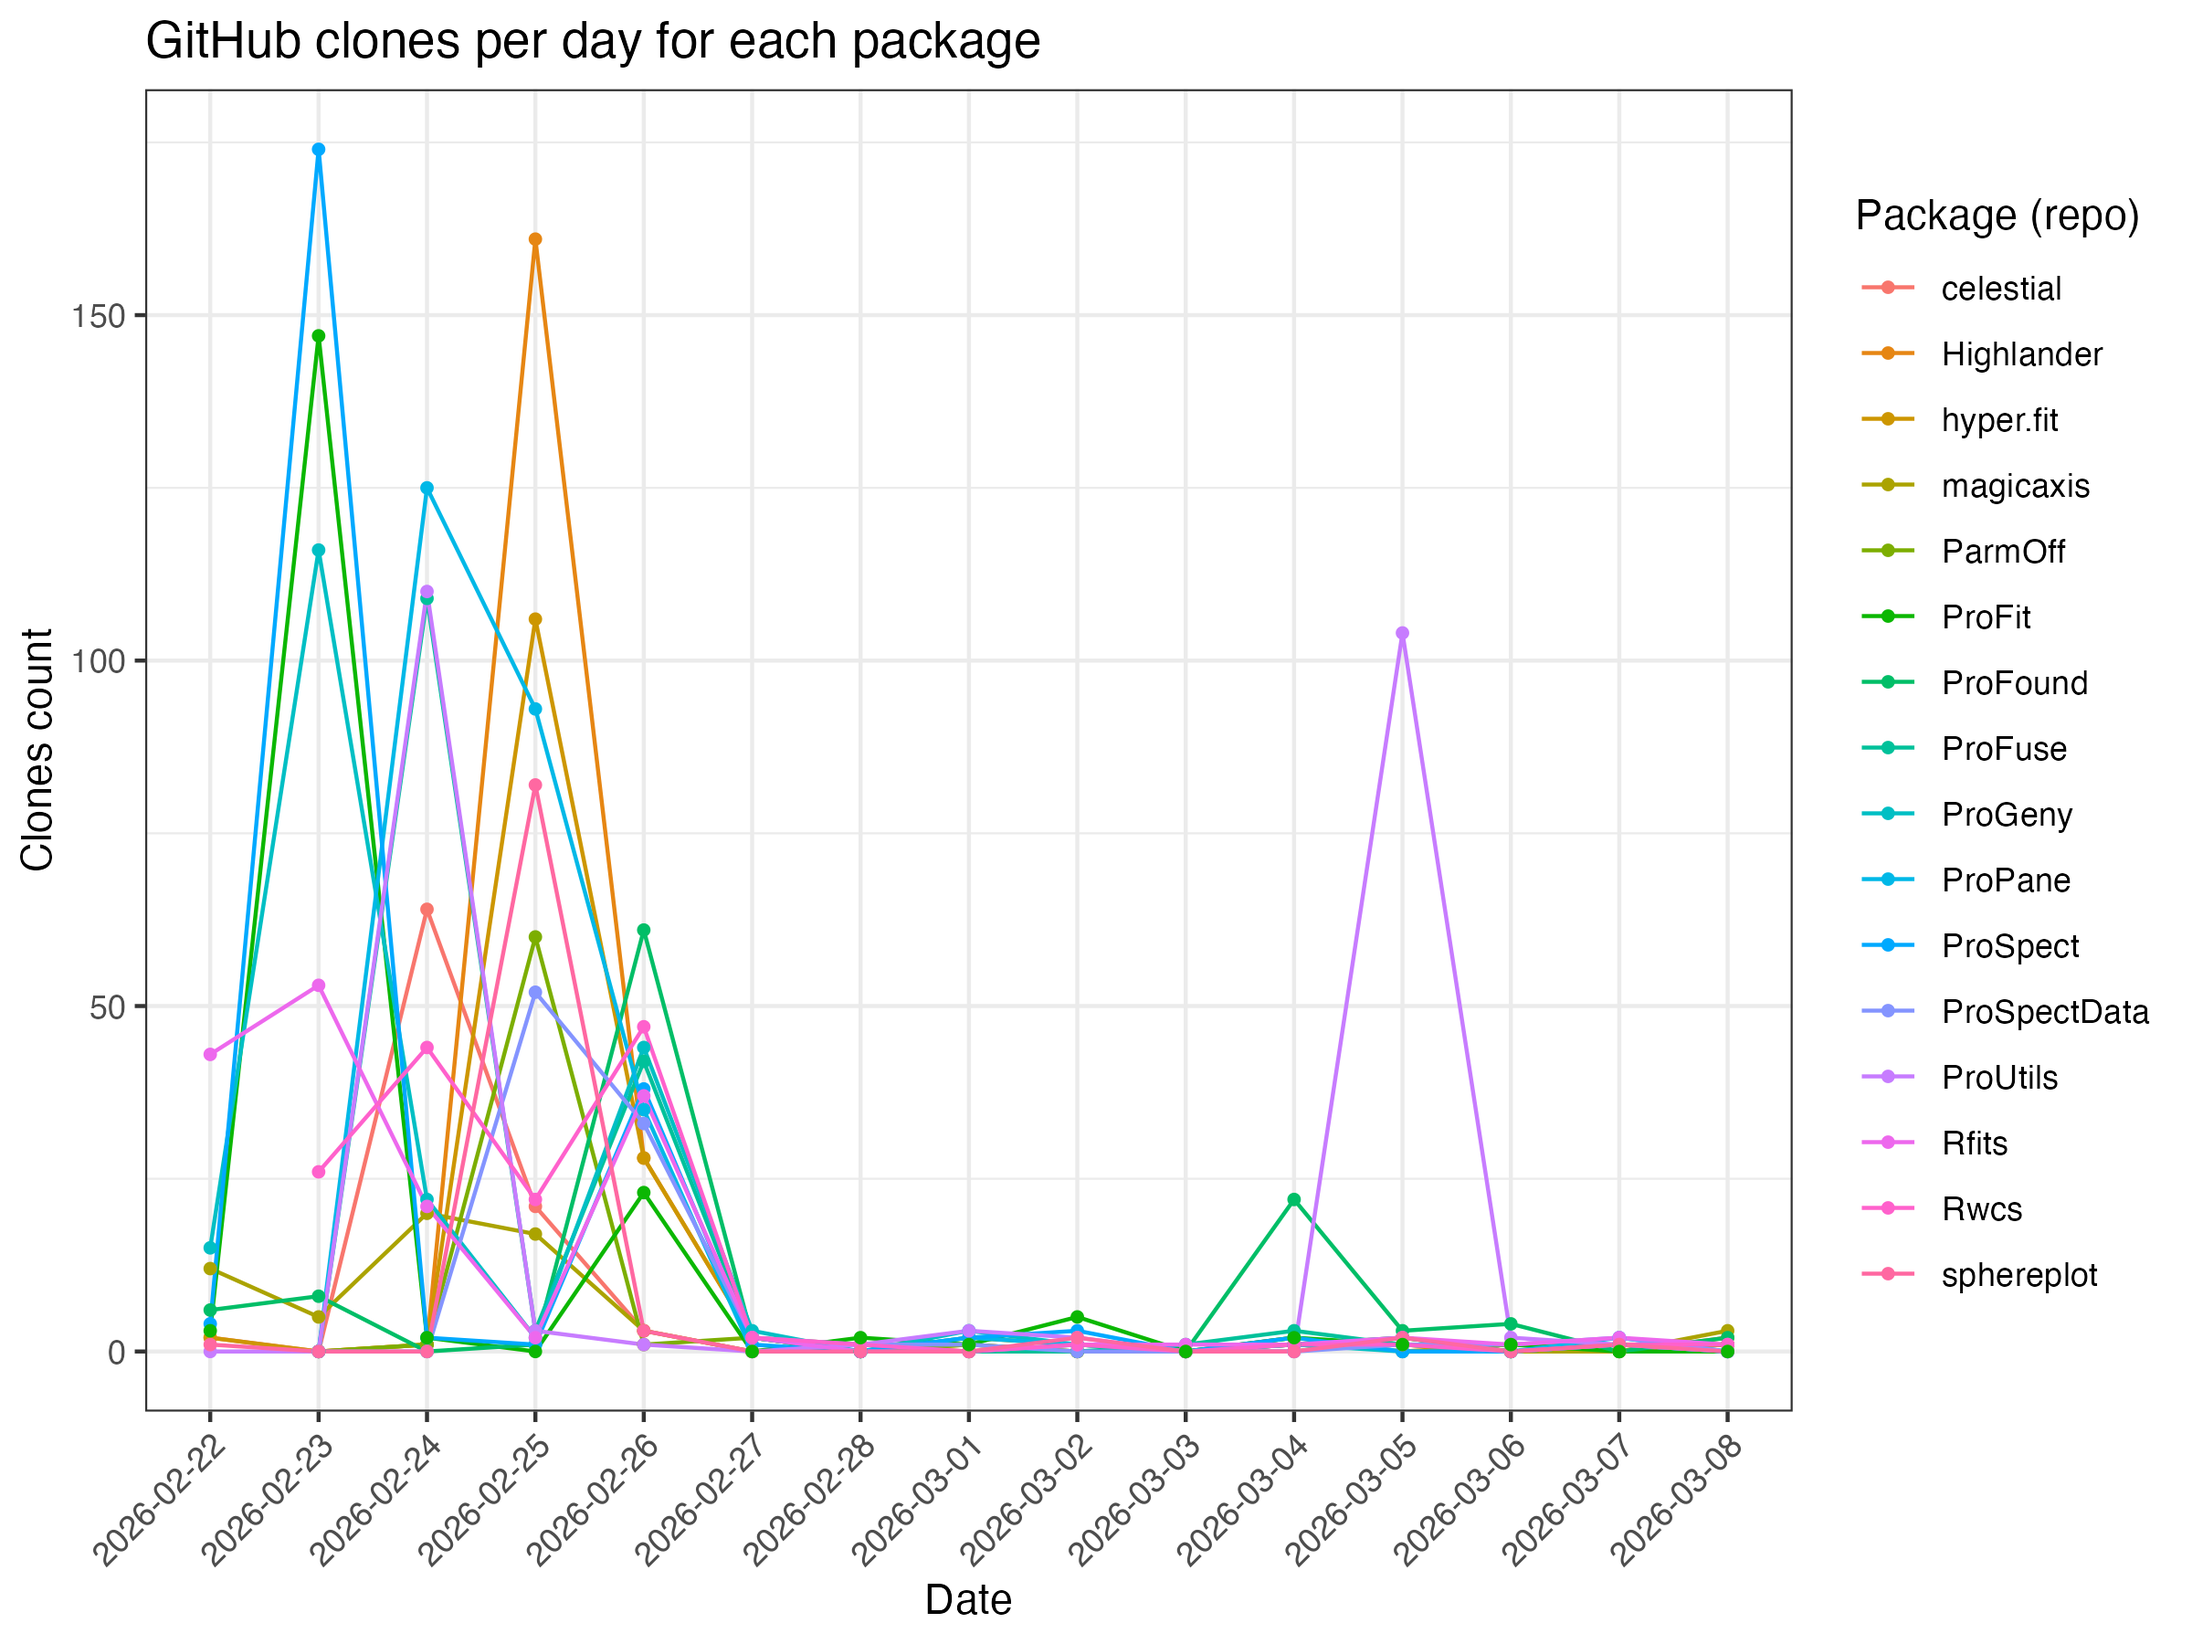
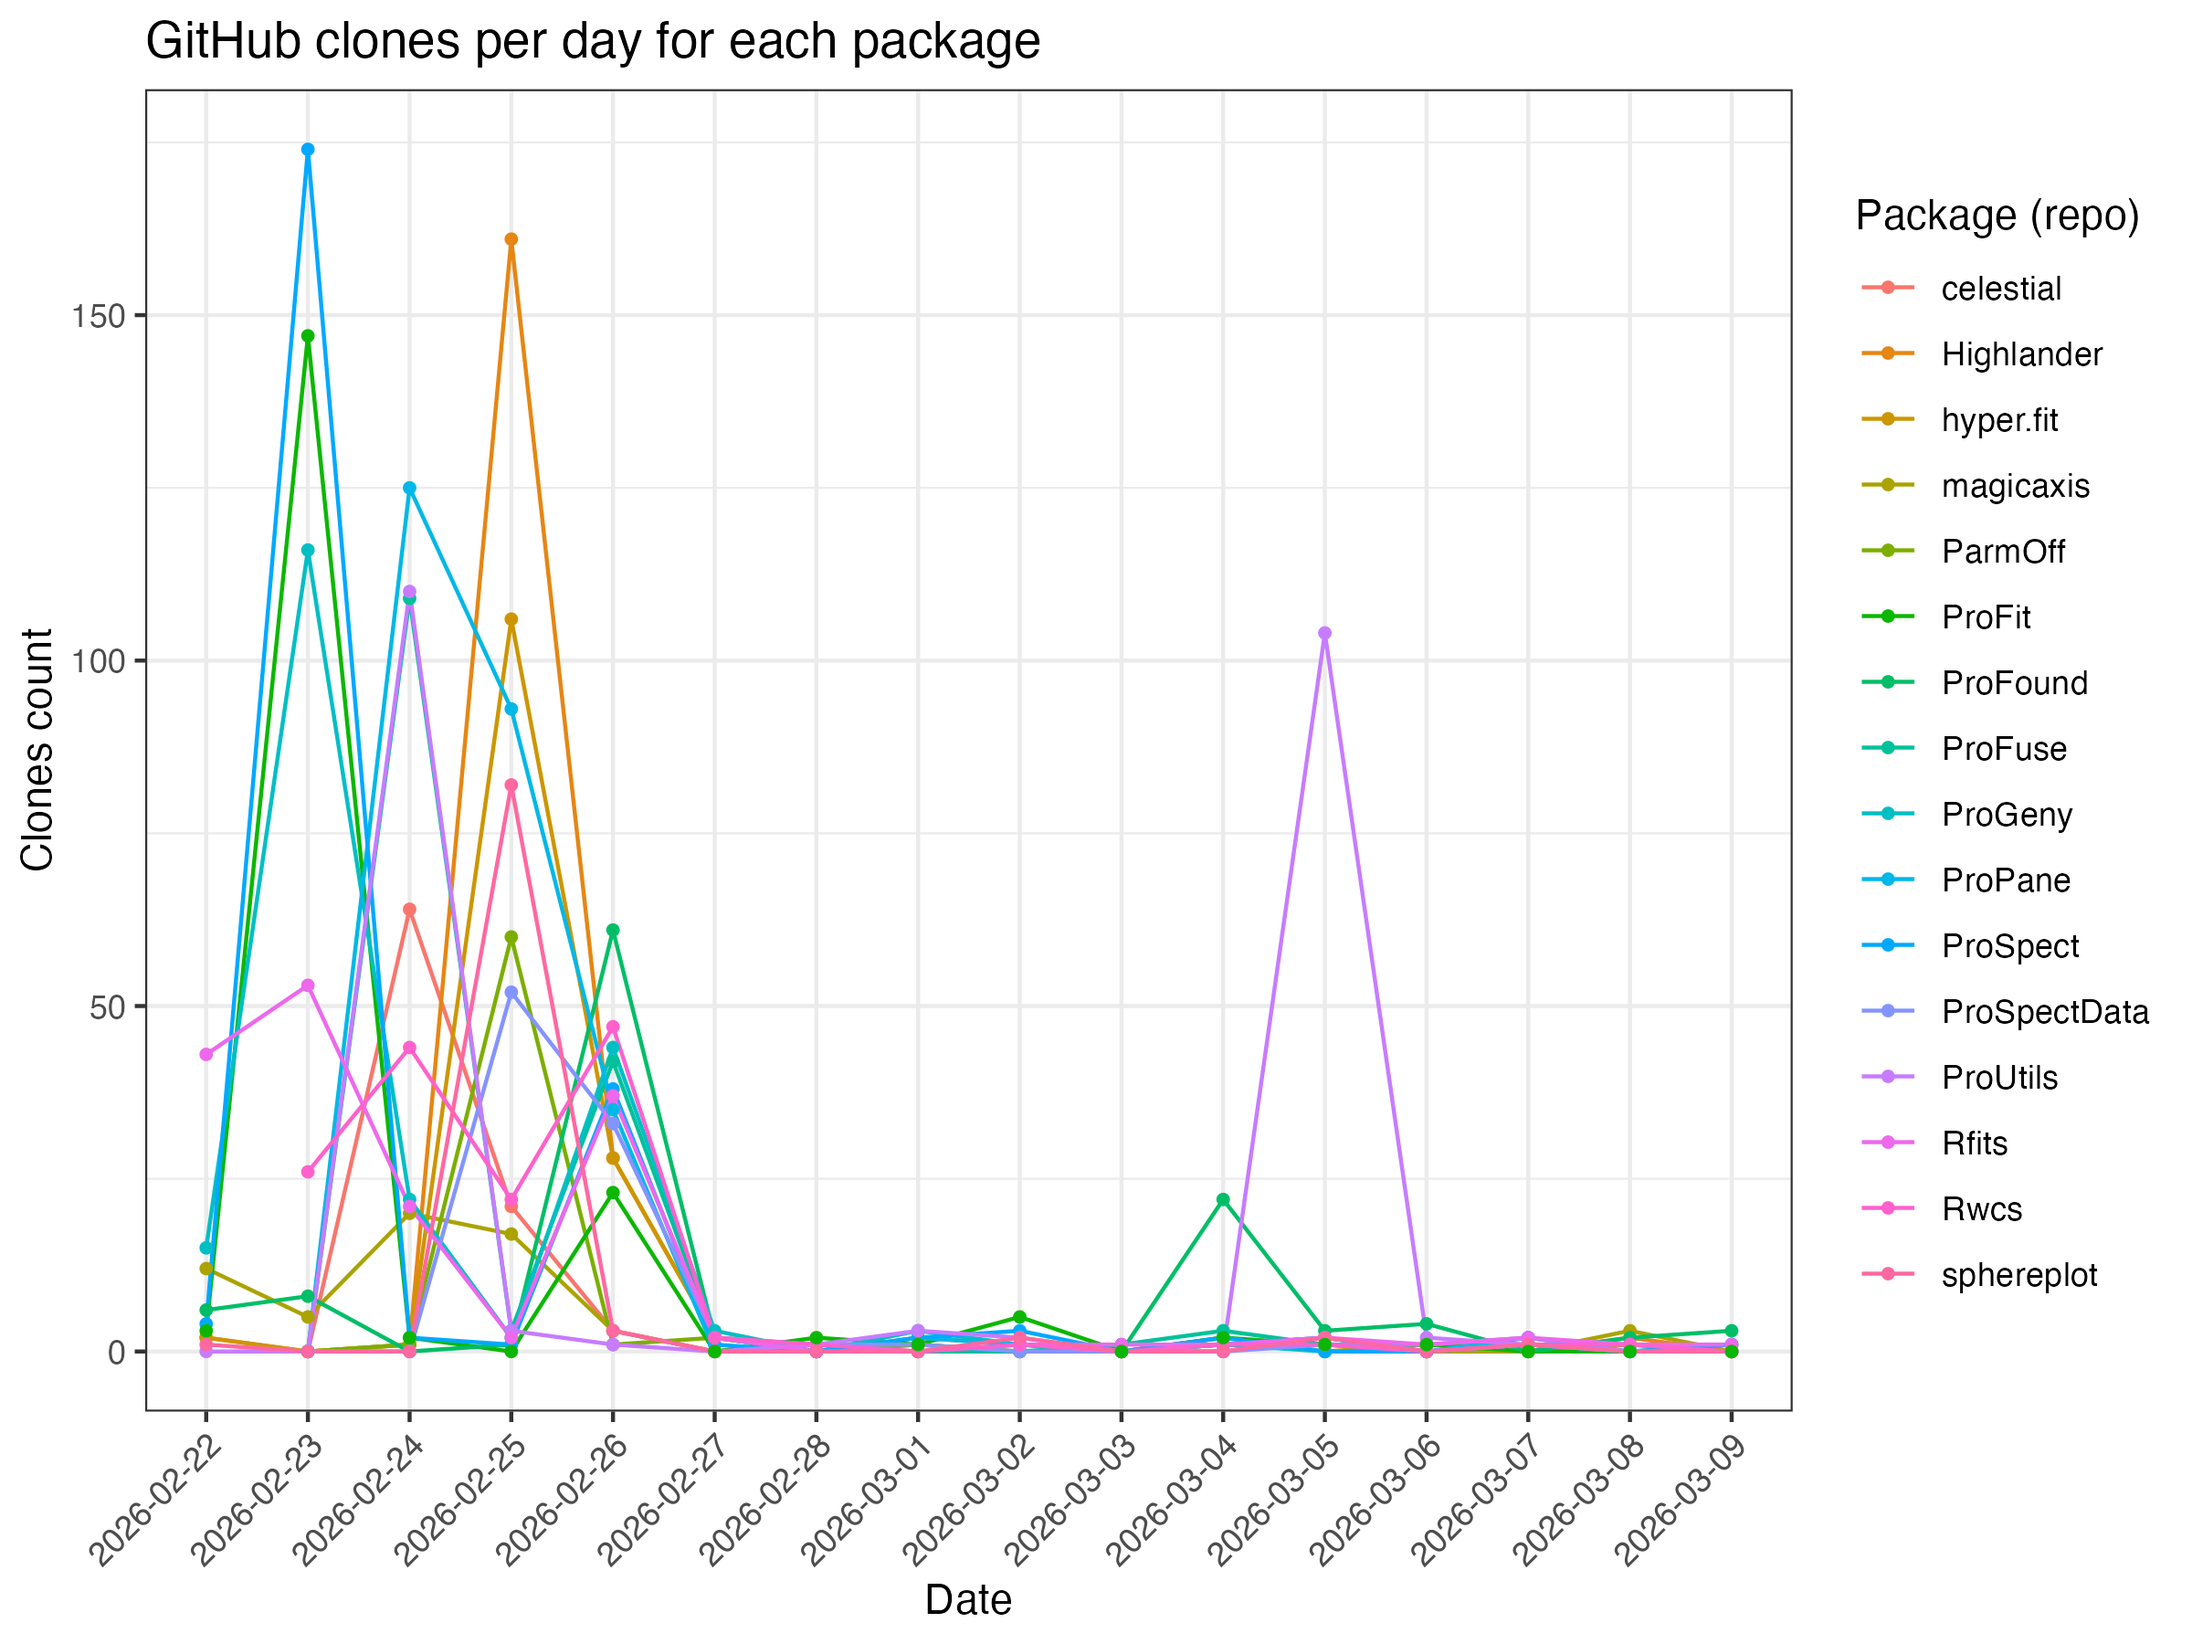
Plot updates

diff --git a/README.md b/README.md
@@ -209,9 +209,17 @@ The results are committed back to this repository as two CSV files in the [`data
 
 The `*_uniques` columns are the key signal: they count deduplicated visitors/clone sources per day and are the best available approximation of organic interest.  Note that GitHub only returns the most recent ~14 days of data, so history accumulates incrementally from the first workflow run.  See [`data/README.md`](data/README.md) for full column definitions and caveats.
 
-![Traffic views](data/traffic_views.png)
+### Visualisation
 
-![Traffic clones](data/traffic_clones.png)
+#### Total Traffic Table
+
+![Traffic total since since 2026-03-09](data/traffic_total.png)
+
+#### Traffic History Graphs
+
+![Traffic views since since 2026-03-09](data/traffic_views.png)
+
+![Traffic clones since since 2026-03-09](data/traffic_clones.png)
 
 ## Resources
 
